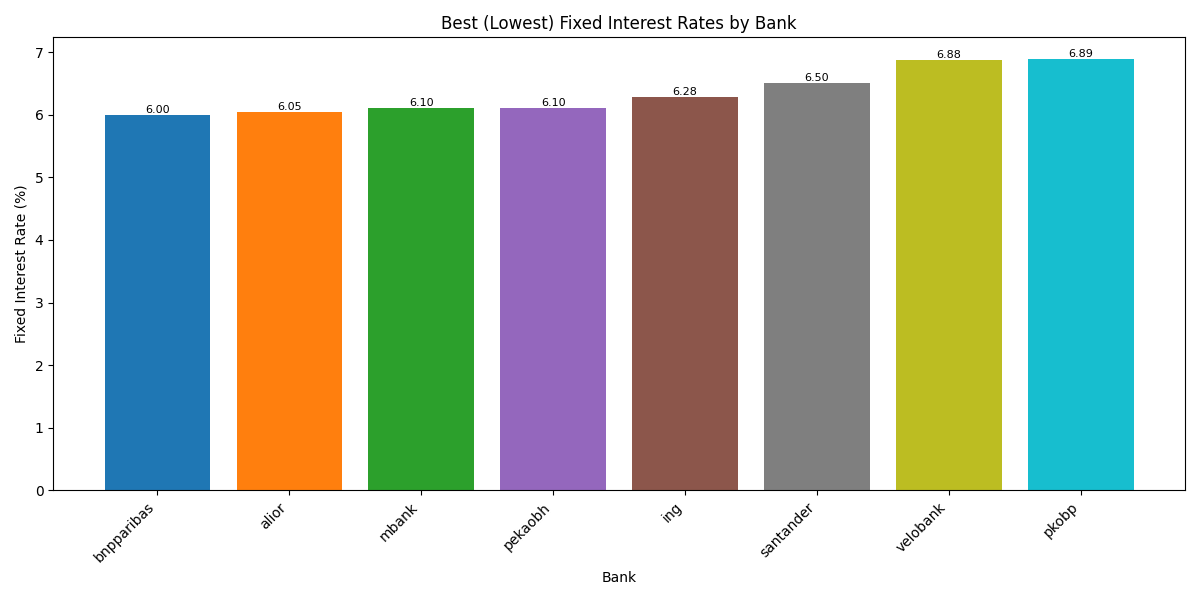
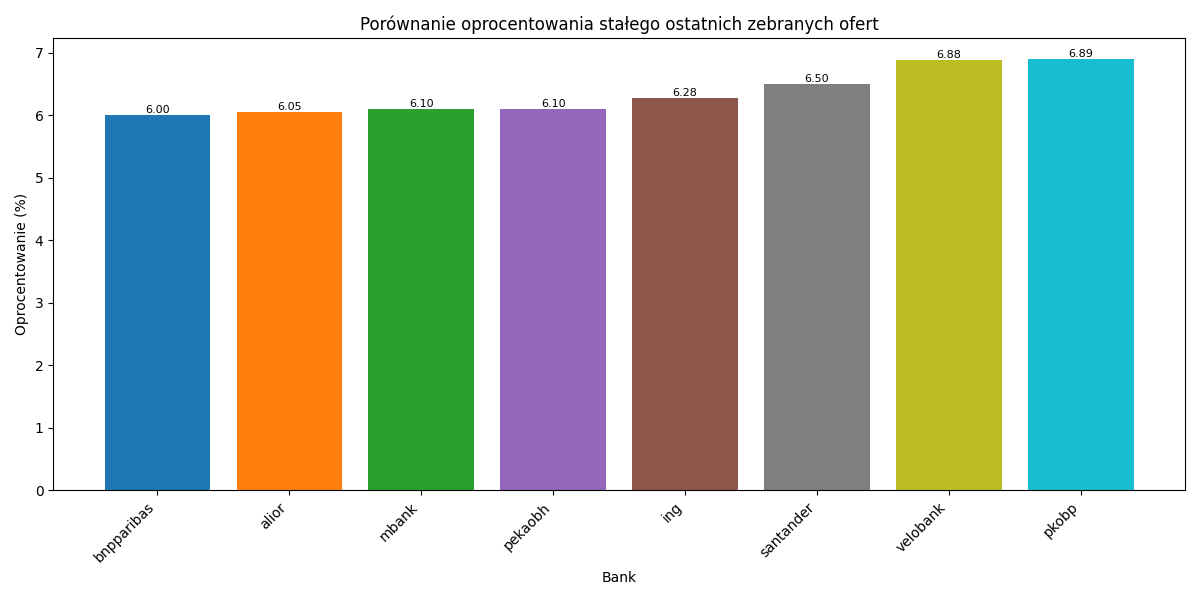
Label updates, changed to last month

diff --git a/scripts/make_graph.py b/scripts/make_graph.py
@@ -53,8 +53,8 @@ for bar in bars:
     )
 
 plt.xlabel("Bank")
-plt.ylabel("Fixed Interest Rate (%)")
-plt.title("Best (Lowest) Fixed Interest Rates by Bank")
+plt.ylabel("Oprocentowanie (%)")
+plt.title("Porównanie oprocentowania stałego ostatnich zebranych ofert")
 plt.xticks(rotation=45, ha="right")
 plt.tight_layout()
 plt.savefig(img_output_dir / "output_fixed_rate_plot.png")
@@ -87,8 +87,8 @@ for bar in bars:
     )
 
 plt.xlabel("Bank")
-plt.ylabel("APR (%)")
-plt.title("Best (Lowest) APR by Bank")
+plt.ylabel("RRSO (%)")
+plt.title("Porównanie RRSO ostatnich zebranych ofert")
 plt.xticks(rotation=45, ha="right")
 plt.tight_layout()
 plt.savefig(img_output_dir / "output_apr_plot.png")
@@ -114,8 +114,8 @@ for bank, group in df_fixed_full.groupby("bank"):
     )
 
 plt.xlabel("Date")
-plt.ylabel("Fixed Interest Rate (%)")
-plt.title("Fixed Interest Rates Over Time by Bank")
+plt.ylabel("Oprocentowanie (%)")
+plt.title("Oprocentowanie stałe w czasie")
 plt.xticks(rotation=45, ha="right")
 plt.legend(title="Bank", bbox_to_anchor=(1.05, 1), loc="upper left")
 plt.tight_layout()
@@ -129,11 +129,12 @@ df["offer_collection_date"] = pd.to_datetime(df["offer_collection_date"])
 df_fixed_full = df[df["fixed_interest_rate"].notna()]
 df_fixed_full = df_fixed_full.sort_values(["bank", "offer_collection_date"])
 
-# Filter for the last 3 months
-three_months_ago = datetime.now() - timedelta(days=90)
+# Filter for the last X months
+last_days = 30
+three_months_ago = datetime.now() - timedelta(days=last_days)
 df_fixed_last_3_months = df_fixed_full[df_fixed_full["offer_collection_date"] >= three_months_ago]
 
-# Plot for the last 3 months
+# Plot for the last X months
 plt.figure(figsize=(12, 6))
 
 for bank, group in df_fixed_last_3_months.groupby("bank"):
@@ -145,12 +146,12 @@ for bank, group in df_fixed_last_3_months.groupby("bank"):
     )
 
 plt.xlabel("Date")
-plt.ylabel("Fixed Interest Rate (%)")
-plt.title("Fixed Interest Rates Over Last 3 Months by Bank")
+plt.ylabel("Oprocentowanie (%)")
+plt.title("Oprocetowanie stałe przez ostatni miesiąc")
 plt.xticks(rotation=45, ha="right")
 plt.legend(title="Bank", bbox_to_anchor=(1.05, 1), loc="upper left")
 plt.tight_layout()
-plt.savefig(img_output_dir / "output_fixed_rate_last_3_months_by_bank.png")
+plt.savefig(img_output_dir / "output_fixed_rate_last_months_by_bank.png")
 plt.show()
 
 
@@ -170,8 +171,8 @@ for bank, group in df_apr_full.groupby("bank"):
     )
 
 plt.xlabel("Date")
-plt.ylabel("APR (%)")
-plt.title("APR Over Time by Bank")
+plt.ylabel("RRSO (%)")
+plt.title("RRSO w czasie")
 plt.xticks(rotation=45, ha="right")
 plt.legend(title="Bank", bbox_to_anchor=(1.05, 1), loc="upper left")
 plt.tight_layout()
@@ -184,11 +185,12 @@ df_apr_full = df[(df["apr"] > 0) & (df["offer_collection_date"].notna())]
 df_apr_full["offer_collection_date"] = pd.to_datetime(df_apr_full["offer_collection_date"])
 df_apr_full = df_apr_full.sort_values(["bank", "offer_collection_date"])
 
-# Filter for the last 3 months
-three_months_ago = datetime.now() - timedelta(days=90)
+# Filter for the last x months
+last_days = 30
+three_months_ago = datetime.now() - timedelta(days=last_days)
 df_last_3_months = df_apr_full[df_apr_full["offer_collection_date"] >= three_months_ago]
 
-# Plot for the last 3 months
+# Plot for the last X months
 plt.figure(figsize=(12, 6))
 
 for bank, group in df_last_3_months.groupby("bank"):
@@ -200,11 +202,11 @@ for bank, group in df_last_3_months.groupby("bank"):
     )
 
 plt.xlabel("Date")
-plt.ylabel("APR (%)")
-plt.title("APR Over Last 3 Months by Bank")
+plt.ylabel("RRSO (%)")
+plt.title("RRSO przez ostatni miesiac")
 plt.xticks(rotation=45, ha="right")
 plt.legend(title="Bank", bbox_to_anchor=(1.05, 1), loc="upper left")
 plt.tight_layout()
-plt.savefig(img_output_dir / "output_apr_last_3_months_by_bank.png")
+plt.savefig(img_output_dir / "output_apr_last_months_by_bank.png")
 plt.show()
 

diff --git a/README.md b/README.md
@@ -18,12 +18,12 @@ Aktualnie zbieram dane z poniższych banków:
 - [VeloBank](https://www.velobank.pl/klienci-indywidualni/kredyty/kredyt-hipoteczny.html)
 
 ## Wykresy
-### Wysokość stałego oprocentowania w ostatnich 3 miesiącach.
-![Stale oprocentowanie 3 miesiace](img/output_fixed_rate_last_3_months_by_bank.png)
+### Wysokość stałego oprocentowania w ostatnim miesiącu.
+![Stale oprocentowanie 3 miesiace](img/output_fixed_rate_last_months_by_bank.png)
 ### Wysokość stałego oprocentowania w ostatniej ofercie.
 ![Stale oprocentowanie ostatnia oferta](img/output_fixed_rate_plot.png)
-### RRSO w ostatnich 3 miesiącach.
-![RRSO 3 miesiace](img/output_apr_last_3_months_by_bank.png)
+### RRSO w ostatnim miesiącu.
+![RRSO 3 miesiace](img/output_apr_last_months_by_bank.png)
 ### RRSO w ostatniej ofercie.
 ![RRSO ostatnia oferta](img/output_apr_plot.png)
 ### RRSO historycznie
